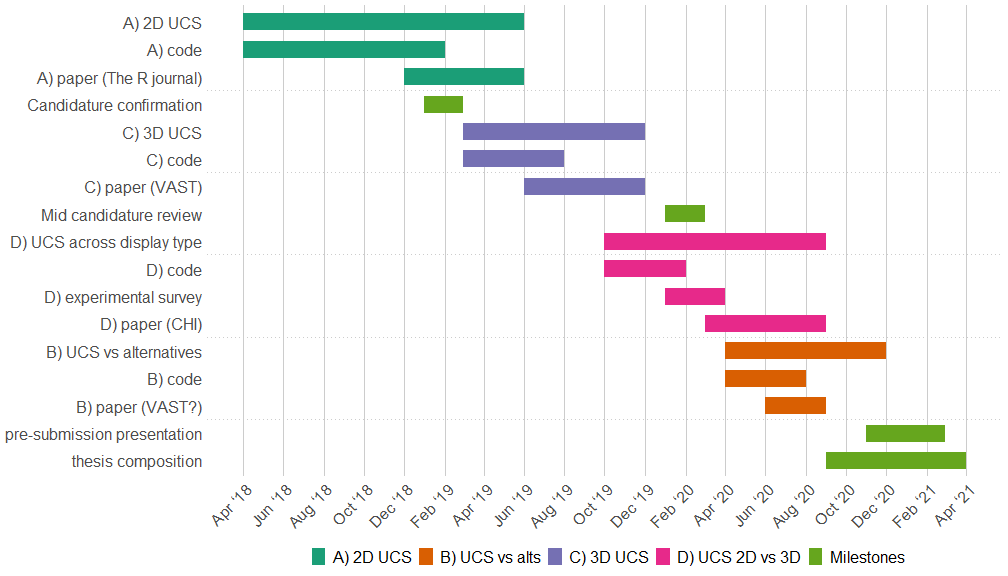
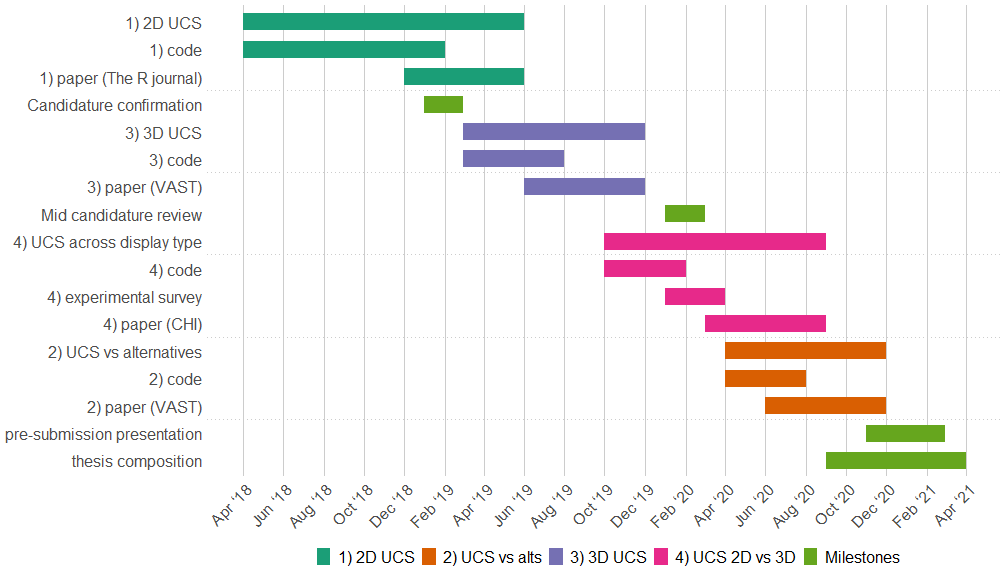
RO letters to numbers

diff --git a/slides_ns.html b/slides_ns.html
@@ -82,9 +82,9 @@ of the sensitivity of structure to the original variables or parameters? **
 
 ---
 
-# A) 2D User controlled steering
+# 1) 2D User controlled steering
 
-**RO #A) Can user controlled steering (UCS) be utilized in an environment providing non-interactive animation?**
+**RO #1) Can user controlled steering (UCS) be utilized in an environment providing non-interactive animation?**
 
 *Work in the last year:*
 
@@ -118,33 +118,33 @@ of the sensitivity of structure to the original variables or parameters? **
 &lt;tbody&gt;
   &lt;tr&gt;
    &lt;td style="text-align:left;"&gt; tars1 &lt;/td&gt;
-   &lt;td style="text-align:right;"&gt; 0.6802 &lt;/td&gt;
-   &lt;td style="text-align:right;"&gt; -0.0635 &lt;/td&gt;
+   &lt;td style="text-align:right;"&gt; 0.7129 &lt;/td&gt;
+   &lt;td style="text-align:right;"&gt; 0.0325 &lt;/td&gt;
   &lt;/tr&gt;
   &lt;tr&gt;
    &lt;td style="text-align:left;"&gt; tars2 &lt;/td&gt;
-   &lt;td style="text-align:right;"&gt; 0.0152 &lt;/td&gt;
-   &lt;td style="text-align:right;"&gt; 0.3956 &lt;/td&gt;
+   &lt;td style="text-align:right;"&gt; -0.0069 &lt;/td&gt;
+   &lt;td style="text-align:right;"&gt; 0.3875 &lt;/td&gt;
   &lt;/tr&gt;
   &lt;tr&gt;
    &lt;td style="text-align:left;"&gt; head &lt;/td&gt;
-   &lt;td style="text-align:right;"&gt; 0.0986 &lt;/td&gt;
-   &lt;td style="text-align:right;"&gt; 0.4068 &lt;/td&gt;
+   &lt;td style="text-align:right;"&gt; -0.0218 &lt;/td&gt;
+   &lt;td style="text-align:right;"&gt; 0.4629 &lt;/td&gt;
   &lt;/tr&gt;
   &lt;tr&gt;
    &lt;td style="text-align:left;"&gt; aede1 &lt;/td&gt;
-   &lt;td style="text-align:right;"&gt; -0.0312 &lt;/td&gt;
-   &lt;td style="text-align:right;"&gt; 0.4604 &lt;/td&gt;
+   &lt;td style="text-align:right;"&gt; -0.1723 &lt;/td&gt;
+   &lt;td style="text-align:right;"&gt; 0.4970 &lt;/td&gt;
   &lt;/tr&gt;
   &lt;tr&gt;
    &lt;td style="text-align:left;"&gt; aede2 &lt;/td&gt;
-   &lt;td style="text-align:right;"&gt; 0.7199 &lt;/td&gt;
-   &lt;td style="text-align:right;"&gt; 0.1000 &lt;/td&gt;
+   &lt;td style="text-align:right;"&gt; 0.6712 &lt;/td&gt;
+   &lt;td style="text-align:right;"&gt; 0.2043 &lt;/td&gt;
   &lt;/tr&gt;
   &lt;tr&gt;
    &lt;td style="text-align:left;"&gt; aede3 &lt;/td&gt;
-   &lt;td style="text-align:right;"&gt; -0.0902 &lt;/td&gt;
-   &lt;td style="text-align:right;"&gt; 0.6723 &lt;/td&gt;
+   &lt;td style="text-align:right;"&gt; -0.1052 &lt;/td&gt;
+   &lt;td style="text-align:right;"&gt; 0.5880 &lt;/td&gt;
   &lt;/tr&gt;
 &lt;/tbody&gt;
 &lt;/table&gt;
@@ -216,9 +216,9 @@ Results:
 
 ---
 
-# B) UCS vs alternatives
+# 2) UCS vs alternatives
 
-**RO #B) What benefits does UCS provide over popular alternatives?**
+**RO #2) What benefits does UCS provide over popular alternatives?**
 
 *Future case study:*
 
@@ -231,9 +231,9 @@ Results:
 
 ---
 
-# C) Extending UCS to 3D
+# 3) Extending UCS to 3D
 
-**RO #C) How do we extend UCS to 3D?**
+**RO #3) How do we extend UCS to 3D?**
 
 *future exploratory design*
 
@@ -249,9 +249,9 @@ Results:
 
 ---
 
-# D) Low-dimension embeddings across display type
+# 4) Low-dimension embeddings across display type
 
-**RO #D) Does UCS with 3D displays provide perception benefits over 2D displays?**
+**RO #4) Does UCS with 3D displays provide perception benefits over 2D displays?**
 
 *future empirical study*
 
